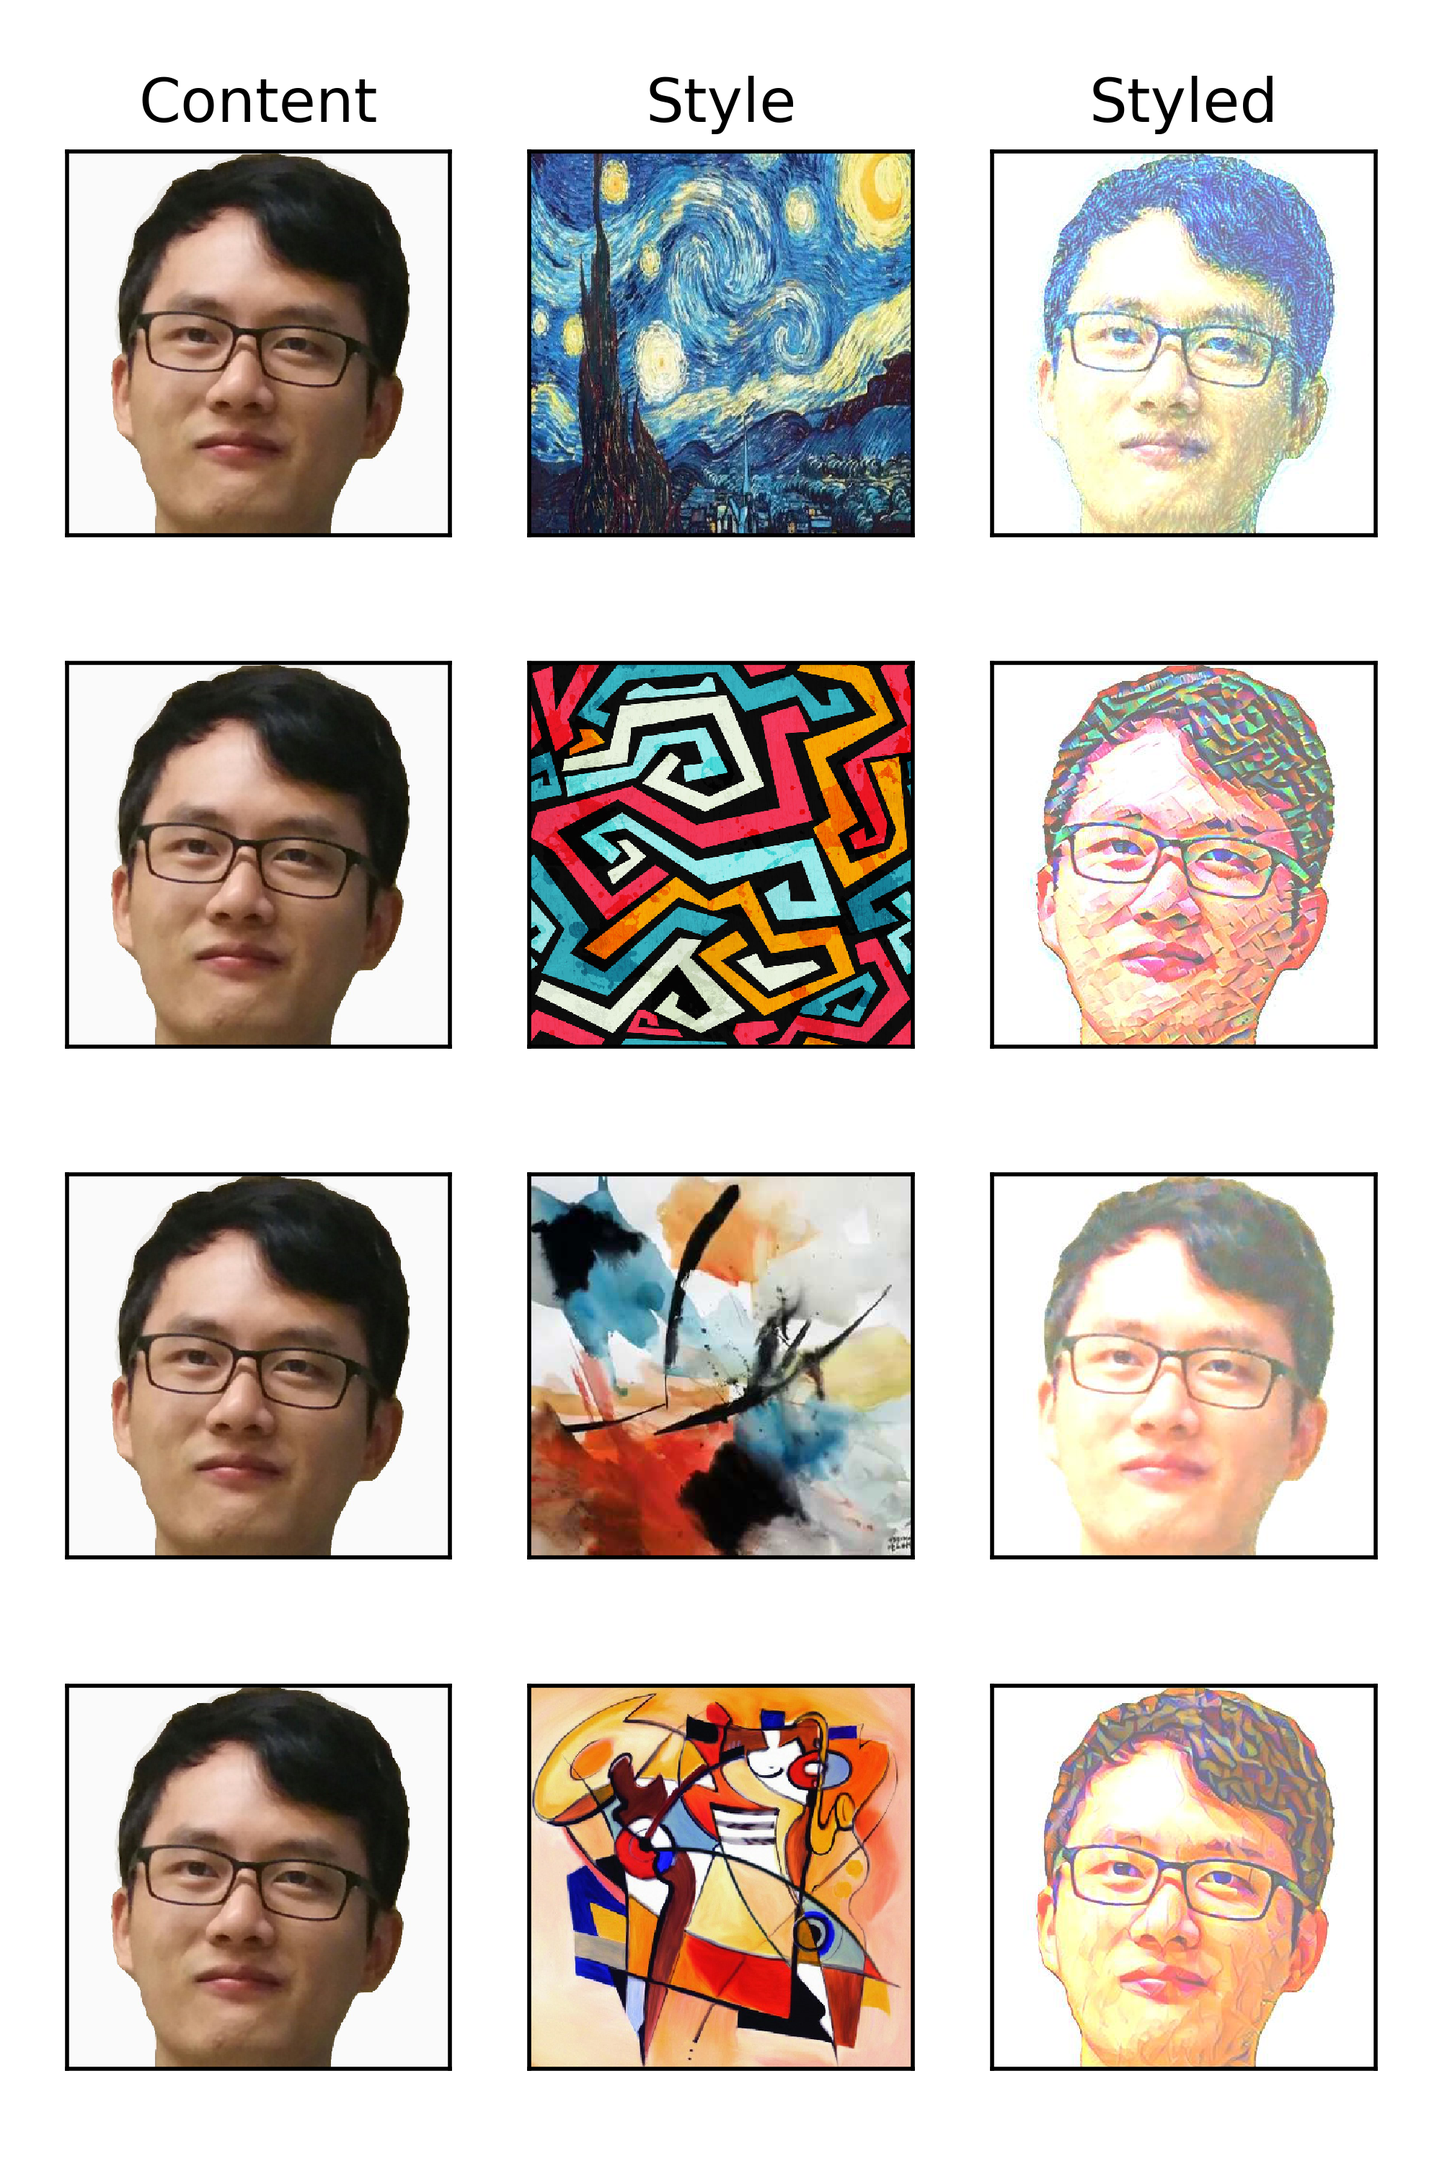
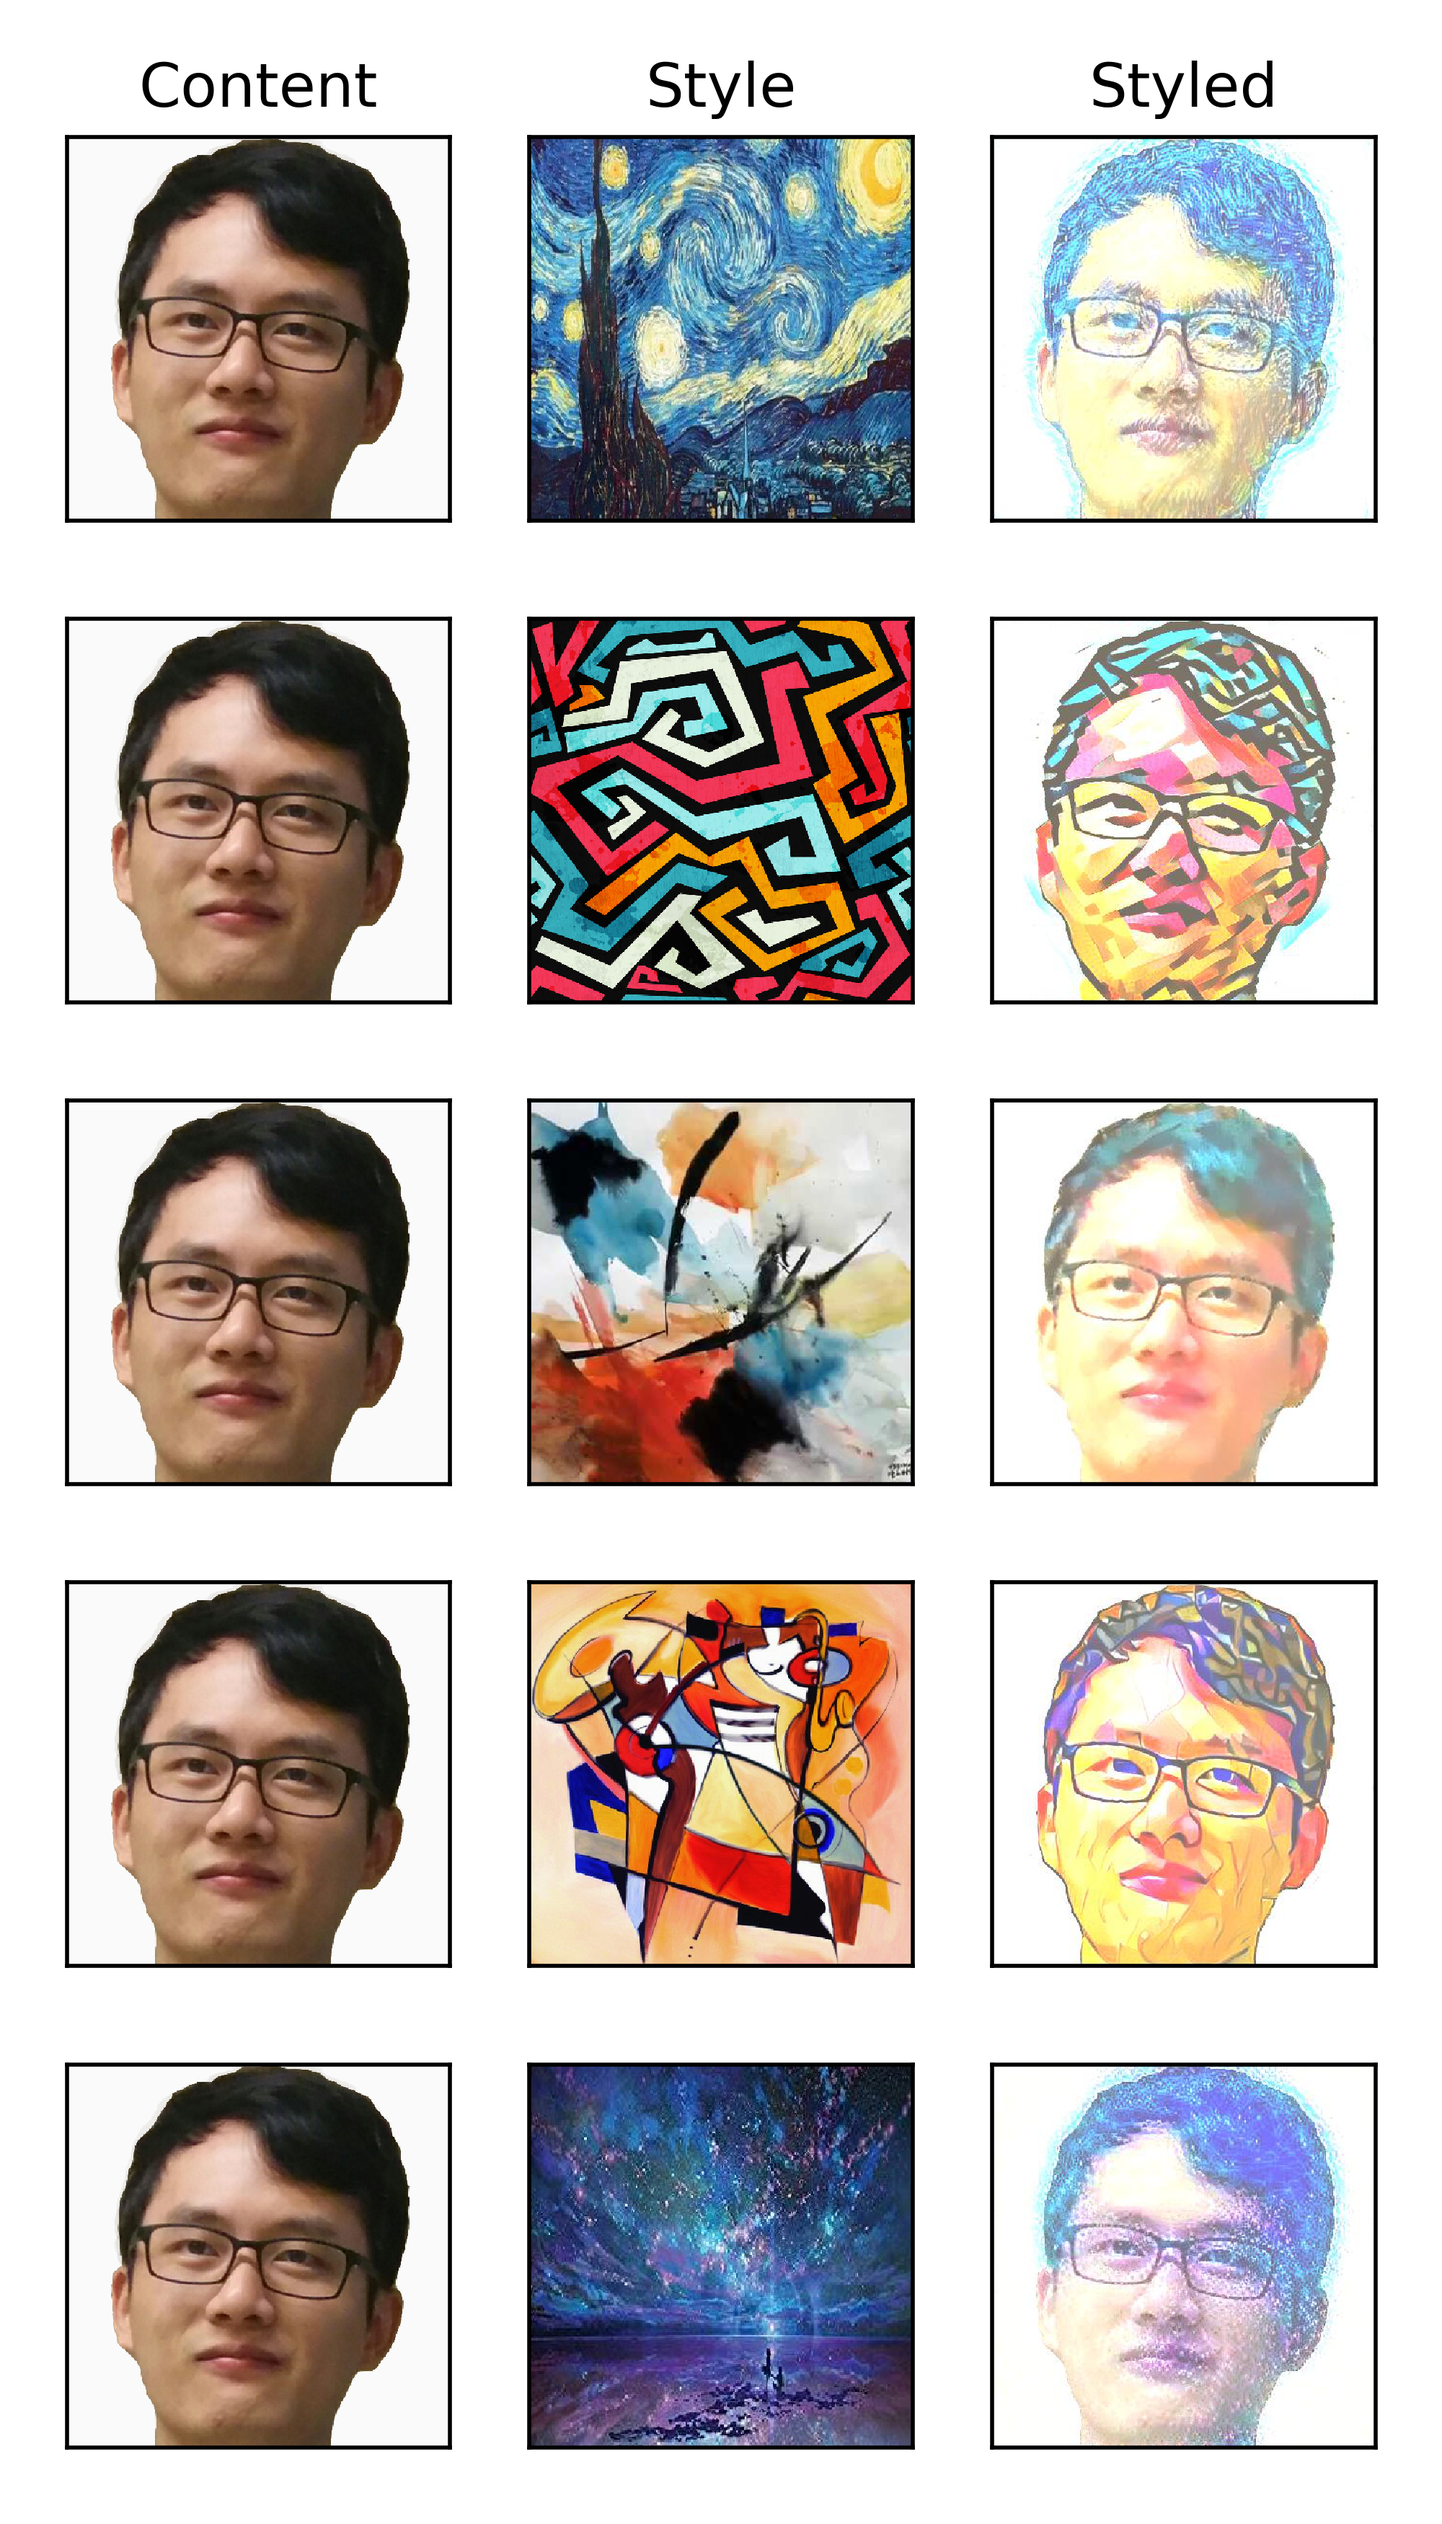
add more style image

diff --git a/codes/105_Style_Transfer.py b/codes/105_Style_Transfer.py
@@ -16,13 +16,13 @@ from scipy.optimize import fmin_l_bfgs_b
 
 # image and model path
 CONTENT_PATH = '../example_images/morvan2.jpg'
-STYLE_PATH = '../example_images/style4.jpg'
+STYLE_PATH = '../example_images/style5.jpg'
 OUTPUT_DIR = '../results/'
 VGG_PATH = '../models/vgg16.npy'
 
 # weight for loss (content loss, style loss and total variation loss)
 W_CONTENT = 0.001
-W_STYLE = W_CONTENT * 1e2
+W_STYLE = W_CONTENT * 1e3
 W_VARIATION = 1.
 HEIGHT, WIDTH = 400, 400    # output image height and width
 N_ITER = 6                  # styling how many times?
@@ -98,7 +98,6 @@ class StyleTransfer:
         self.grads = tf.gradients(loss, self.tf_styled)
 
         self.sess = tf.Session()
-        self.sess.run(tf.global_variables_initializer())
         tf.summary.FileWriter('./log', self.sess.graph)
 
     def styling(self, content_image, style_image, n_iter):
@@ -113,7 +112,7 @@ class StyleTransfer:
         for i in range(n_iter):
             x, min_val, info = fmin_l_bfgs_b(self._get_loss, x.flatten(), fprime=lambda x: self.flat_grads, maxfun=20)
             x = x.clip(0., 255.)
-            print(i, ' loss: ', min_val)
+            print('(%i/%i) loss: %.1f' % (i+1, n_iter, min_val))
 
         x = x.reshape((self.height, self.width, 3))
         for i in range(1, 4):

diff --git a/codes/show_result.py b/codes/show_result.py
@@ -22,11 +22,11 @@ def deep_dream():
 
 def style_transfer():
     # plotting
-    content = Image.open('../example_images/morvan3.jpg').resize((400, 400))
-    plt.figure(1, figsize=(4, 6))
-    for i in range(4):
+    content = Image.open('../example_images/morvan2.jpg').resize((400, 400))
+    plt.figure(1, figsize=(4, 7))
+    for i in range(5):
         for j in range(3):
-            plt.subplot(4, 3, 3*i+j+1)
+            plt.subplot(5, 3, 3*i+j+1)
             if j == 0:
                 plt.imshow(content)
                 if i == 0:
@@ -37,7 +37,7 @@ def style_transfer():
                 if i == 0:
                     plt.title('Style')
             else:
-                styled = Image.open('../results/morvan3_style%i.jpeg' % (i+1)).resize((400, 400))
+                styled = Image.open('../results/morvan2_style%i.jpeg' % (i+1)).resize((400, 400))
                 plt.imshow(styled)
                 if i == 0:
                     plt.title('Styled')
@@ -48,5 +48,5 @@ def style_transfer():
 
 
 if __name__ == '__main__':
-    deep_dream()
-    # style_transfer()
+    # deep_dream()
+    style_transfer()
